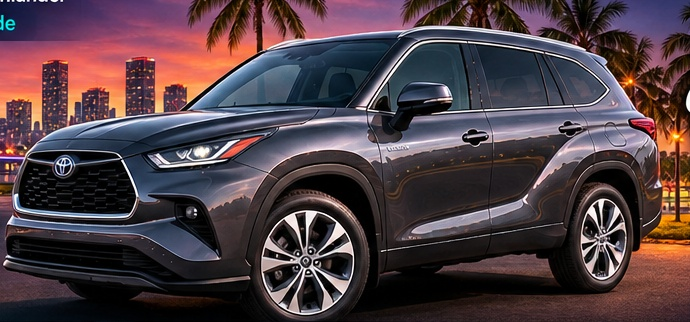
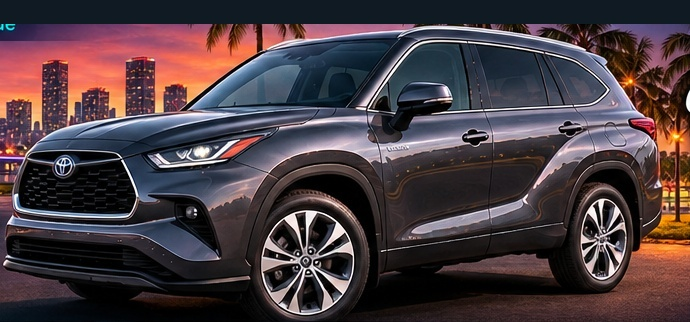
Add files via upload

Changed region(s): [[0.0, 0.0, 1.0, 0.0932]]

diff --git a/index.html b/index.html
@@ -38,7 +38,7 @@ h1{font-family:Georgia,"Times New Roman",serif;font-size:60px;font-style:italic;
 .badge{border:1px solid var(--line);background:rgba(255,255,255,.035);padding:8px 11px;border-radius:14px;font-size:13px}
 
 .hero-right{position:relative;overflow:hidden;background:#101a22;display:flex;align-items:center;justify-content:center}
-.hero-right img{width:100%;height:100%;object-fit:contain;object-position:center center;display:block;background:linear-gradient(180deg,#15212a,#0a1117)}
+.hero-right img{width:100%;height:100%;object-fit:contain;object-position:center 55%;display:block;background:linear-gradient(180deg,#15212a,#0a1117)}
 .hero-right:after{content:"";position:absolute;inset:0;background:linear-gradient(90deg,rgba(7,19,28,.20),transparent 26%)}
 .car-label{position:absolute;right:18px;bottom:12px;z-index:3;text-align:right;text-shadow:0 2px 9px #000}
 .car-label b{font-size:24px;letter-spacing:.04em}
